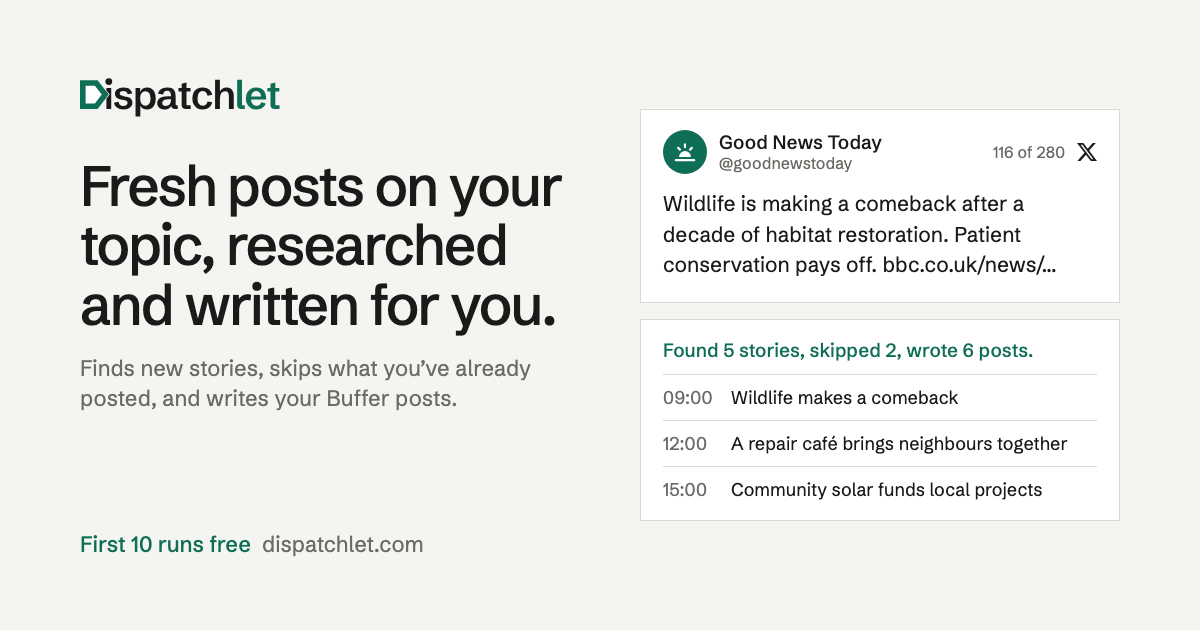
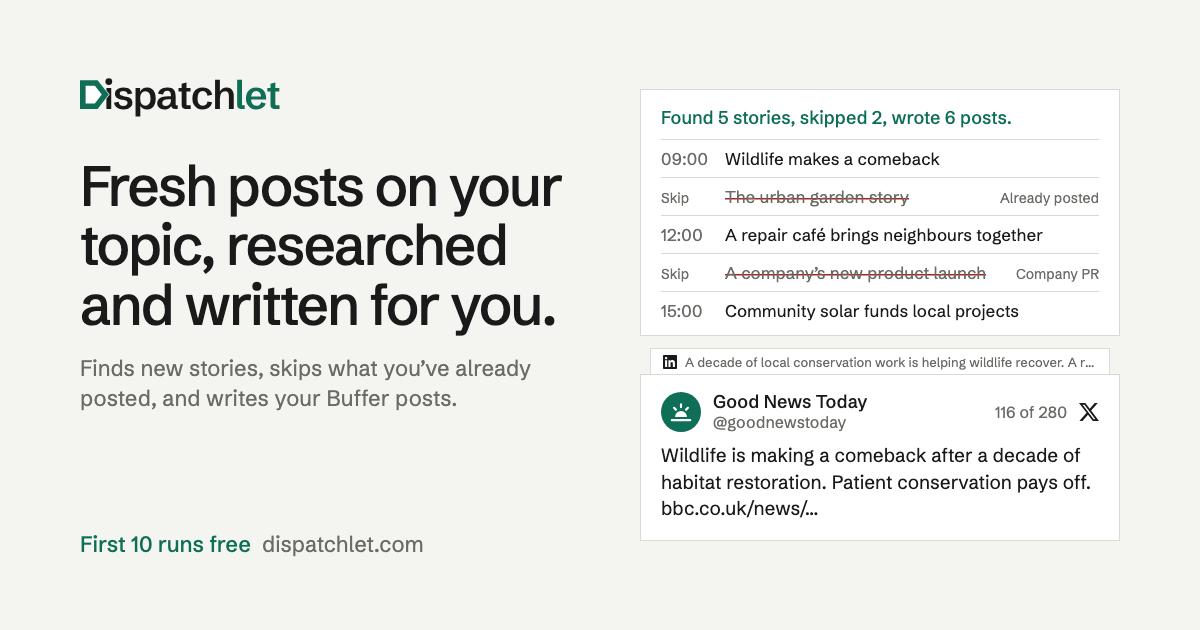
feat(og): redraw the share image from the hero's finished run
The share image still showed the old hero: the post first, then only the three kept stories.
It now matches the hero's last frame: the run card with all five stories, the two it skipped
struck through with why, then the X post with its LinkedIn version behind it. The version query
moves to v=3 so X and LinkedIn fetch it again.

diff --git a/scripts/og/og.html b/scripts/og/og.html
@@ -67,8 +67,41 @@
         border: 1px solid #dad9d3;
         background: #fff;
       }
+      /* The posts, with the LinkedIn version tucked behind the X one, as in the hero. */
+      .posts {
+        position: relative;
+        isolation: isolate;
+        margin-top: 38px;
+      }
+      .twin {
+        position: absolute;
+        z-index: -1;
+        top: -26px;
+        left: 10px;
+        right: 10px;
+        height: 60px;
+        display: flex;
+        align-items: flex-start;
+        gap: 8px;
+        padding: 5px 12px;
+        border: 1px solid #dad9d3;
+        background: #fff;
+        color: #6a6a66;
+        font-size: 13px;
+        line-height: 16px;
+        white-space: nowrap;
+        overflow: hidden;
+      }
+      .twin svg {
+        flex: none;
+        margin-top: 1px;
+      }
+      .twin span {
+        overflow: hidden;
+        text-overflow: ellipsis;
+      }
       .post {
-        padding: 20px 22px 22px;
+        padding: 16px 20px 18px;
       }
       .head {
         display: flex;
@@ -78,8 +111,8 @@
       .avatar {
         display: grid;
         place-items: center;
-        width: 44px;
-        height: 44px;
+        width: 40px;
+        height: 40px;
         border-radius: 50%;
         background: #0f6e56;
         color: #fff;
@@ -91,7 +124,7 @@
         line-height: 1.2;
       }
       .who strong {
-        font-size: 19px;
+        font-size: 18px;
         font-weight: 500;
       }
       .who span,
@@ -100,18 +133,17 @@
         font-size: 16px;
       }
       .post p {
-        margin-top: 14px;
-        font-size: 21px;
-        line-height: 1.45;
+        margin-top: 10px;
+        font-size: 19px;
+        line-height: 1.4;
       }
       .day {
-        margin-top: 16px;
-        padding: 18px 22px 8px;
+        padding: 16px 20px 6px;
       }
       .receipt {
-        padding-bottom: 12px;
+        padding-bottom: 10px;
         color: #0f6e56;
-        font-size: 19px;
+        font-size: 18px;
         font-weight: 500;
       }
       ol {
@@ -119,14 +151,28 @@
       }
       li {
         display: grid;
-        grid-template-columns: 58px 1fr;
+        grid-template-columns: 54px 1fr auto;
+        align-items: baseline;
         gap: 10px;
-        padding: 11px 0;
+        padding: 8px 0;
         border-top: 1px solid #dad9d3;
-        font-size: 18px;
+        font-size: 17px;
       }
-      time {
+      time,
+      .skip,
+      .reason {
         color: #6a6a66;
+      }
+      .skip,
+      .reason {
+        font-size: 14px;
+      }
+      /* A story it won't post: struck through, with why. */
+      s {
+        justify-self: start;
+        color: #6a6a66;
+        text-decoration: none;
+        background: linear-gradient(#a8261c, #a8261c) no-repeat 0 58% / 100% 1.5px;
       }
     </style>
   </head>
@@ -203,39 +249,60 @@
       <p class="foot"><strong>First 10 runs free</strong>&nbsp;&nbsp;dispatchlet.com</p>
     </div>
     <div class="panel">
-      <div class="card post">
-        <div class="head">
-          <span class="avatar">
-            <svg width="26" height="26" viewBox="0 0 24 24" fill="none">
-              <path d="M6.5 16.5a5.5 5.5 0 0 1 11 0z" fill="currentColor" />
-              <path
-                d="M3.5 19.5h17M12 5v2.5M5.6 8.1l1.7 1.7M18.4 8.1l-1.7 1.7"
-                stroke="currentColor"
-                stroke-width="2"
-                stroke-linecap="round"
-              />
-            </svg>
-          </span>
-          <span class="who"><strong>Good News Today</strong><span>@goodnewstoday</span></span>
-          <span class="count">116 of 280</span>
-          <svg width="20" height="20" viewBox="0 0 24 24" fill="#1a1a1a">
-            <path
-              d="M18.901 1.153h3.68l-8.04 9.19L24 22.846h-7.406l-5.8-7.584-6.638 7.584H.474l8.6-9.83L0 1.154h7.594l5.243 6.932ZM17.61 20.644h2.039L6.486 3.24H4.298Z"
-            />
-          </svg>
-        </div>
-        <p>
-          Wildlife is making a comeback after a decade of habitat restoration. Patient conservation
-          pays off. bbc.co.uk/news/…
-        </p>
-      </div>
       <div class="card day">
         <p class="receipt">Found 5 stories, skipped 2, wrote 6 posts.</p>
         <ol>
           <li><time>09:00</time><span>Wildlife makes a comeback</span></li>
+          <li>
+            <span class="skip">Skip</span><s>The urban garden story</s
+            ><span class="reason">Already posted</span>
+          </li>
           <li><time>12:00</time><span>A repair café brings neighbours together</span></li>
+          <li>
+            <span class="skip">Skip</span><s>A company’s new product launch</s
+            ><span class="reason">Company PR</span>
+          </li>
           <li><time>15:00</time><span>Community solar funds local projects</span></li>
         </ol>
+      </div>
+      <div class="posts">
+        <div class="twin">
+          <svg width="14" height="14" viewBox="0 0 24 24" fill="#1a1a1a">
+            <path
+              d="M20.447 20.452h-3.554v-5.569c0-1.328-.027-3.037-1.852-3.037-1.853 0-2.136 1.445-2.136 2.939v5.667H9.351V9h3.414v1.561h.046c.477-.9 1.637-1.85 3.37-1.85 3.601 0 4.267 2.37 4.267 5.455v6.286zM5.337 7.433c-1.144 0-2.063-.926-2.063-2.065 0-1.138.92-2.063 2.063-2.063 1.14 0 2.064.925 2.064 2.063 0 1.139-.925 2.065-2.064 2.065zm1.782 13.019H3.555V9h3.564v11.452zM22.225 0H1.771C.792 0 0 .774 0 1.729v20.542C0 23.227.792 24 1.771 24h20.451C23.2 24 24 23.227 24 22.271V1.729C24 .774 23.2 0 22.222 0h.003z"
+            />
+          </svg>
+          <span
+            >A decade of local conservation work is helping wildlife recover. A reminder that
+            long-term investment in restoring habitats can make a difference.</span
+          >
+        </div>
+        <div class="card post">
+          <div class="head">
+            <span class="avatar">
+              <svg width="26" height="26" viewBox="0 0 24 24" fill="none">
+                <path d="M6.5 16.5a5.5 5.5 0 0 1 11 0z" fill="currentColor" />
+                <path
+                  d="M3.5 19.5h17M12 5v2.5M5.6 8.1l1.7 1.7M18.4 8.1l-1.7 1.7"
+                  stroke="currentColor"
+                  stroke-width="2"
+                  stroke-linecap="round"
+                />
+              </svg>
+            </span>
+            <span class="who"><strong>Good News Today</strong><span>@goodnewstoday</span></span>
+            <span class="count">116 of 280</span>
+            <svg width="20" height="20" viewBox="0 0 24 24" fill="#1a1a1a">
+              <path
+                d="M18.901 1.153h3.68l-8.04 9.19L24 22.846h-7.406l-5.8-7.584-6.638 7.584H.474l8.6-9.83L0 1.154h7.594l5.243 6.932ZM17.61 20.644h2.039L6.486 3.24H4.298Z"
+              />
+            </svg>
+          </div>
+          <p>
+            Wildlife is making a comeback after a decade of habitat restoration. Patient
+            conservation pays off. bbc.co.uk/news/…
+          </p>
+        </div>
       </div>
     </div>
   </body>

diff --git a/src/routes/index.tsx b/src/routes/index.tsx
@@ -16,7 +16,7 @@ const TITLE = 'Dispatchlet | An agent that writes your Buffer posts'
 const DESCRIPTION =
   'Dispatchlet finds new stories on your topic, skips what you’ve already posted, and writes your Buffer posts. Daily or weekly. First 10 runs free.'
 /** The share image, versioned so X and LinkedIn fetch it again when it is redrawn. */
-const OG_IMAGE = `${SITE_URL}og.png?v=2`
+const OG_IMAGE = `${SITE_URL}og.png?v=3`
 const SOURCE_URL = 'https://github.com/barrymichaeldoyle/dispatchlet'
 
 export const Route = createFileRoute('/')({

diff --git a/src/components/legal-page.tsx b/src/components/legal-page.tsx
@@ -5,7 +5,7 @@ import { Wordmark } from './wordmark'
 
 const CONTACT_EMAIL = 'barry@dispatchlet.com'
 /** The site's share card, the same one the landing page uses. */
-const OG_IMAGE = 'https://dispatchlet.com/og.png?v=2'
+const OG_IMAGE = 'https://dispatchlet.com/og.png?v=3'
 
 /** Head tags for a legal page, so both pages are described and indexed the same way. */
 export function legalHead(title: string, description: string, path: string) {
